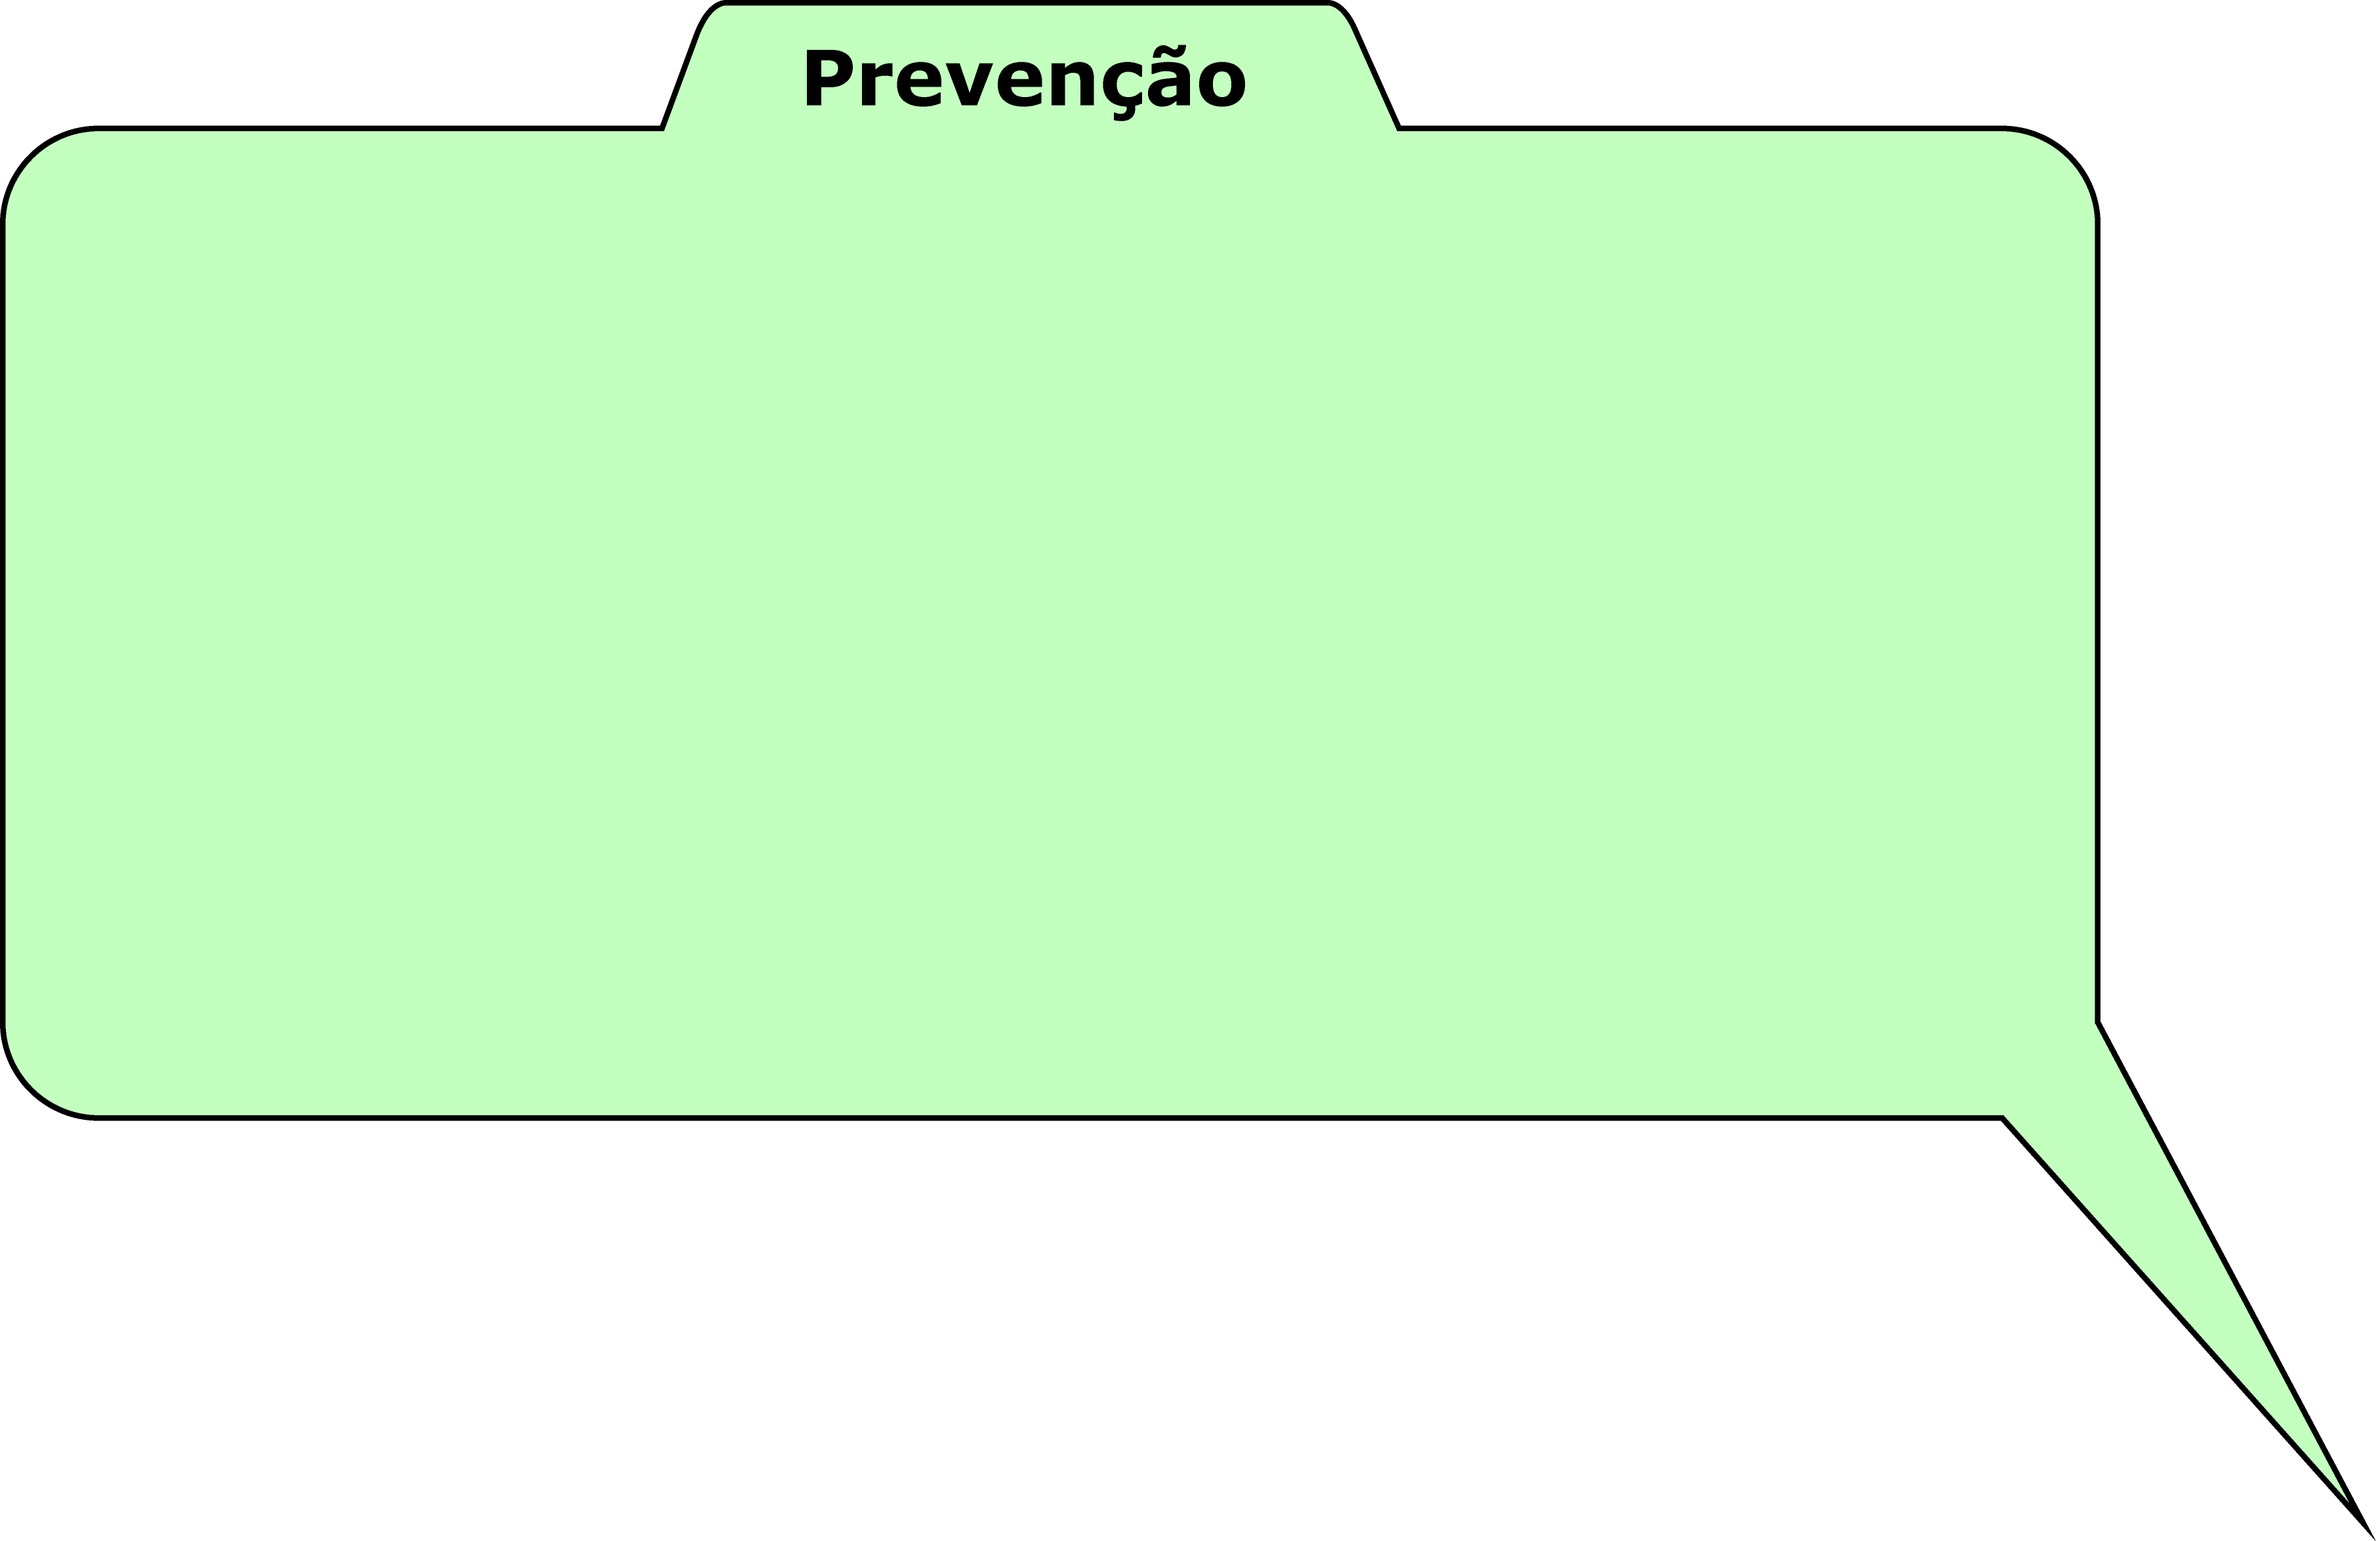
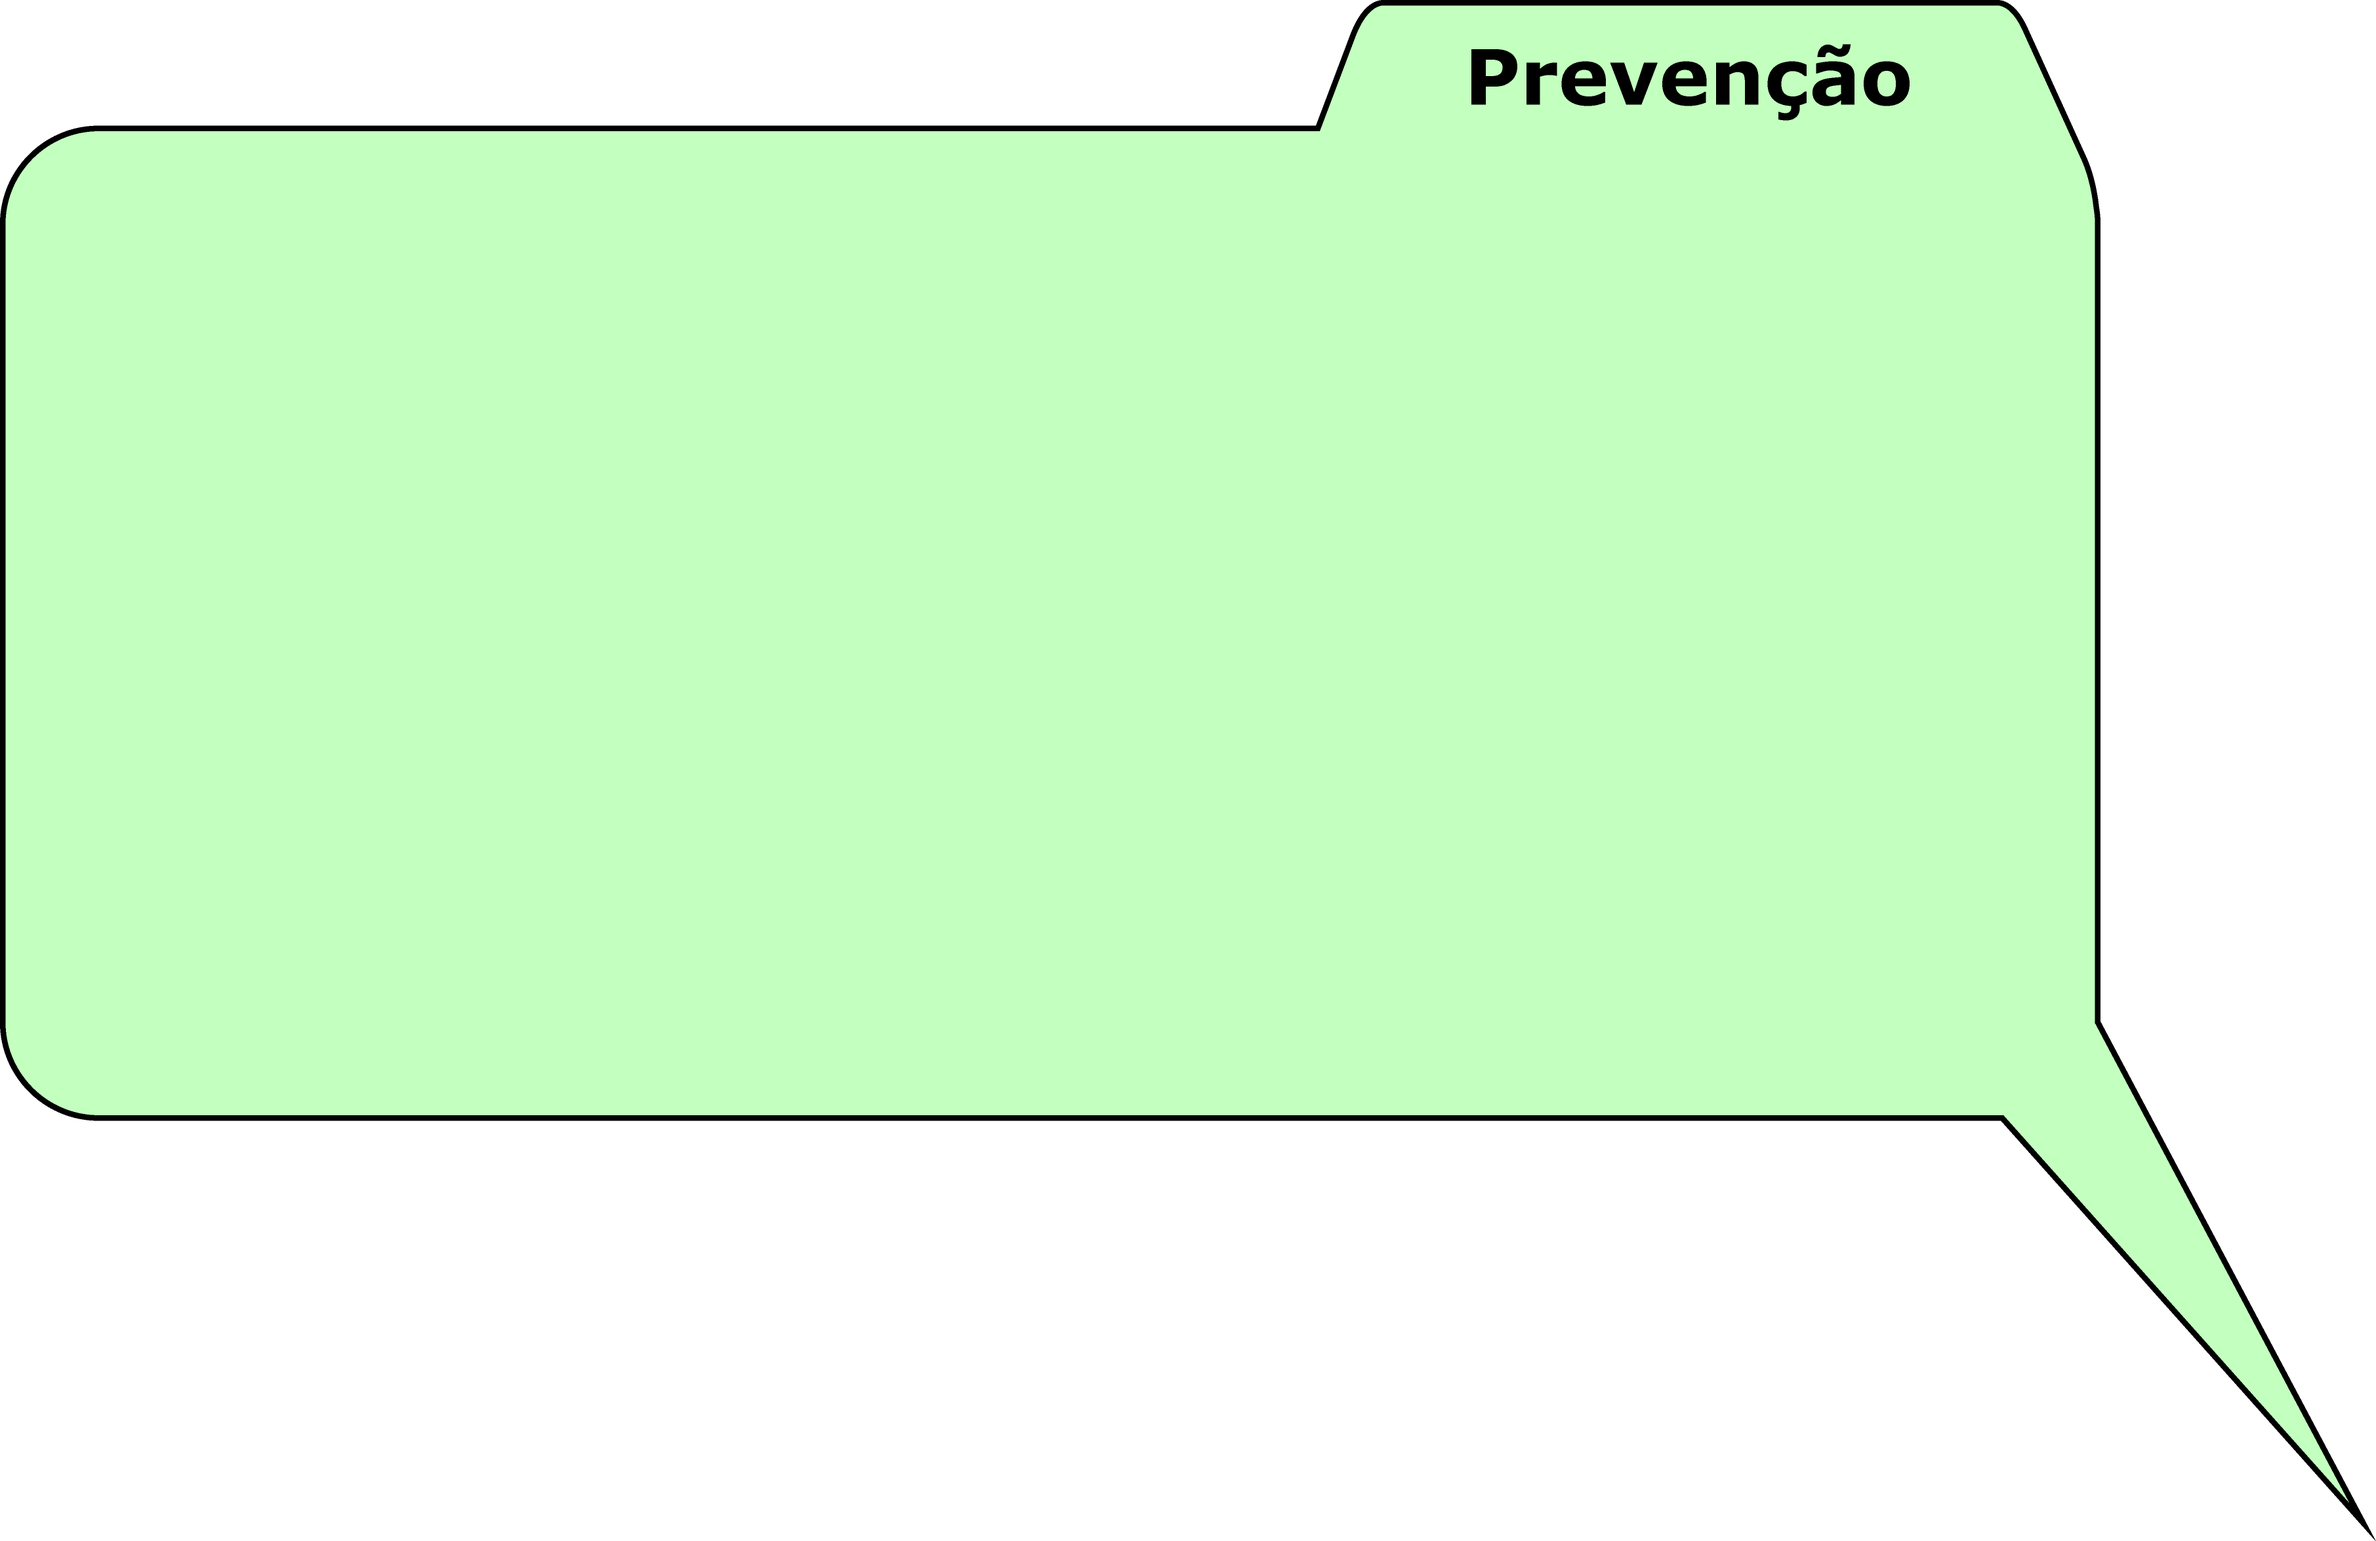
Swap 'Transmissao' and 'Prevencao' tabs

Changed region(s): [[0.2808, 0.0, 0.8736, 0.0932], [0.8736, 0.0932, 0.9047, 0.1243]]

diff --git a/js/cena1_cicloCisticercose.js b/js/cena1_cicloCisticercose.js
@@ -274,9 +274,9 @@ function carregaCicloCisticercose() {
   itensCenouraDoente.push(item.cenouraTextoSintomas);
 
   item.cenouraAbaPrevencao = new Game.Item("abaPrev.png");
-  item.cenouraAbaPrevencao.setPosition(432+244+550-150, 71);
+  item.cenouraAbaPrevencao.setPosition(432+486+550-150, 71);
   item.cenouraAbaPrevencao.setScale(0.25);
-  item.cenouraAbaPrevencao.setZorder(8);
+  item.cenouraAbaPrevencao.setZorder(9);
   item.cenouraAbaPrevencao.setAlpha(0);
   item.cenouraAbaPrevencao.disable();
   item.cenouraAbaPrevencao.onClick = function() {
@@ -300,9 +300,9 @@ function carregaCicloCisticercose() {
   itensCenouraDoente.push(item.cenouraTextoPrevencao);
 
   item.cenouraAbaTransmissao = new Game.Item("abaTran.png");
-  item.cenouraAbaTransmissao.setPosition(432+490+550-150, 71);
+  item.cenouraAbaTransmissao.setPosition(432+232+550-150, 71);
   item.cenouraAbaTransmissao.setScale(0.25);
-  item.cenouraAbaTransmissao.setZorder(9);
+  item.cenouraAbaTransmissao.setZorder(8);
   item.cenouraAbaTransmissao.setAlpha(0);
   item.cenouraAbaTransmissao.disable();
   item.cenouraAbaTransmissao.onClick = function() {

diff --git a/js/cena1_cicloTaeniaSolium.js b/js/cena1_cicloTaeniaSolium.js
@@ -531,9 +531,9 @@ function carregaCicloTaeniaSolium() {
   itensPorcoDoente.push(item.porcoTextoSintomas);
 
   item.porcoAbaPrevencao = new Game.Item("abaPrev.png");
-  item.porcoAbaPrevencao.setPosition(432+244+550+270, 71);
+  item.porcoAbaPrevencao.setPosition(432+486+550+270, 71);
   item.porcoAbaPrevencao.setScale(0.25);
-  item.porcoAbaPrevencao.setZorder(8);
+  item.porcoAbaPrevencao.setZorder(9);
   item.porcoAbaPrevencao.setAlpha(0);
   item.porcoAbaPrevencao.disable();
   item.porcoAbaPrevencao.onClick = function() {
@@ -557,9 +557,9 @@ function carregaCicloTaeniaSolium() {
   itensPorcoDoente.push(item.porcoTextoPrevencao);
 
   item.porcoAbaTransmissao = new Game.Item("abaTran.png");
-  item.porcoAbaTransmissao.setPosition(432+490+550+270, 71);
+  item.porcoAbaTransmissao.setPosition(432+232+550+270, 71);
   item.porcoAbaTransmissao.setScale(0.25);
-  item.porcoAbaTransmissao.setZorder(9);
+  item.porcoAbaTransmissao.setZorder(8);
   item.porcoAbaTransmissao.setAlpha(0);
   item.porcoAbaTransmissao.disable();
   item.porcoAbaTransmissao.onClick = function() {

diff --git a/js/cena0_cicloAscaris.js b/js/cena0_cicloAscaris.js
@@ -497,9 +497,9 @@ function carregaCicloAscaris() {
   itensTomateDoente.push(item.tomateTextoSintomas);
 
   item.tomateAbaPrevencao = new Game.Item("abaPrev.png");
-  item.tomateAbaPrevencao.setPosition(432+232-260, 71);
+  item.tomateAbaPrevencao.setPosition(432+486-260, 71);
   item.tomateAbaPrevencao.setScale(0.25);
-  item.tomateAbaPrevencao.setZorder(8);
+  item.tomateAbaPrevencao.setZorder(9);
   item.tomateAbaPrevencao.setAlpha(0);
   item.tomateAbaPrevencao.disable();
   item.tomateAbaPrevencao.onClick = function() {
@@ -523,9 +523,9 @@ function carregaCicloAscaris() {
   itensTomateDoente.push(item.tomateTextoPrevencao);
 
   item.tomateAbaTransmissao = new Game.Item("abaTran.png");
-  item.tomateAbaTransmissao.setPosition(432+482-260, 71);
+  item.tomateAbaTransmissao.setPosition(432+232-260, 71);
   item.tomateAbaTransmissao.setScale(0.25);
-  item.tomateAbaTransmissao.setZorder(9);
+  item.tomateAbaTransmissao.setZorder(8);
   item.tomateAbaTransmissao.setAlpha(0);
   item.tomateAbaTransmissao.disable();
   item.tomateAbaTransmissao.onClick = function() {

diff --git a/js/cena1_cicloTaeniaSaginata.js b/js/cena1_cicloTaeniaSaginata.js
@@ -530,9 +530,9 @@ function carregaCicloTaeniaSaginata() {
   itensVacaDoente.push(item.vacaTextoSintomas);
 
   item.vacaAbaPrevencao = new Game.Item("abaPrev.png");
-  item.vacaAbaPrevencao.setPosition(432+244+550+270, 71);
+  item.vacaAbaPrevencao.setPosition(432+486+550+270, 71);
   item.vacaAbaPrevencao.setScale(0.25);
-  item.vacaAbaPrevencao.setZorder(8);
+  item.vacaAbaPrevencao.setZorder(9);
   item.vacaAbaPrevencao.setAlpha(0);
   item.vacaAbaPrevencao.disable();
   item.vacaAbaPrevencao.onClick = function() {
@@ -556,9 +556,9 @@ function carregaCicloTaeniaSaginata() {
   itensVacaDoente.push(item.vacaTextoPrevencao);
 
   item.vacaAbaTransmissao = new Game.Item("abaTran.png");
-  item.vacaAbaTransmissao.setPosition(432+490+550+270, 71);
+  item.vacaAbaTransmissao.setPosition(432+232+550+270, 71);
   item.vacaAbaTransmissao.setScale(0.25);
-  item.vacaAbaTransmissao.setZorder(9);
+  item.vacaAbaTransmissao.setZorder(8);
   item.vacaAbaTransmissao.setAlpha(0);
   item.vacaAbaTransmissao.disable();
   item.vacaAbaTransmissao.onClick = function() {

diff --git a/js/cena0_cicloToxoplamose.js b/js/cena0_cicloToxoplamose.js
@@ -367,9 +367,9 @@ function carregaCicloToxoplasmose() {
   itensGatoDoente.push(item.gatoTextoSintomas);
 
   item.gatoAbaPrevencao = new Game.Item("abaPrev.png");
-  item.gatoAbaPrevencao.setPosition(432+244+550, 71);
+  item.gatoAbaPrevencao.setPosition(432+486+550, 71);
   item.gatoAbaPrevencao.setScale(0.25);
-  item.gatoAbaPrevencao.setZorder(8);
+  item.gatoAbaPrevencao.setZorder(9);
   item.gatoAbaPrevencao.setAlpha(0);
   item.gatoAbaPrevencao.disable();
   item.gatoAbaPrevencao.onClick = function() {
@@ -393,9 +393,9 @@ function carregaCicloToxoplasmose() {
   itensGatoDoente.push(item.gatoTextoPrevencao);
 
   item.gatoAbaTransmissao = new Game.Item("abaTran.png");
-  item.gatoAbaTransmissao.setPosition(432+490+550, 71);
+  item.gatoAbaTransmissao.setPosition(432+232+550, 71);
   item.gatoAbaTransmissao.setScale(0.25);
-  item.gatoAbaTransmissao.setZorder(9);
+  item.gatoAbaTransmissao.setZorder(8);
   item.gatoAbaTransmissao.setAlpha(0);
   item.gatoAbaTransmissao.disable();
   item.gatoAbaTransmissao.onClick = function() {

diff --git a/js/cena0_cicloPlasmodium.js b/js/cena0_cicloPlasmodium.js
@@ -495,9 +495,9 @@ function carregaCicloPlasmodium() {
   itensPernDoente.push(item.pernTextoSintomas);
 
   item.pernAbaPrevencao = new Game.Item("abaPrev.png");
-  item.pernAbaPrevencao.setPosition(432+232+300, 71);
+  item.pernAbaPrevencao.setPosition(432+486+300, 71);
   item.pernAbaPrevencao.setScale(0.25);
-  item.pernAbaPrevencao.setZorder(8);
+  item.pernAbaPrevencao.setZorder(9);
   item.pernAbaPrevencao.setAlpha(0);
   item.pernAbaPrevencao.disable();
   item.pernAbaPrevencao.onClick = function() {
@@ -521,9 +521,9 @@ function carregaCicloPlasmodium() {
   itensPernDoente.push(item.pernTextoPrevencao);
 
   item.pernAbaTransmissao = new Game.Item("abaTran.png");
-  item.pernAbaTransmissao.setPosition(432+482+300, 71);
+  item.pernAbaTransmissao.setPosition(432+232+300, 71);
   item.pernAbaTransmissao.setScale(0.25);
-  item.pernAbaTransmissao.setZorder(9);
+  item.pernAbaTransmissao.setZorder(8);
   item.pernAbaTransmissao.setAlpha(0);
   item.pernAbaTransmissao.disable();
   item.pernAbaTransmissao.onClick = function() {

diff --git a/js/cena1_cicloGiardia.js b/js/cena1_cicloGiardia.js
@@ -435,9 +435,9 @@ function carregaCicloGiardia() {
   itensPocoDoente.push(item.pocoTextoSintomas);
 
   item.pocoAbaPrevencao = new Game.Item("abaPrev.png");
-  item.pocoAbaPrevencao.setPosition(432+232+80, 71);
+  item.pocoAbaPrevencao.setPosition(432+486+80, 71);
   item.pocoAbaPrevencao.setScale(0.25);
-  item.pocoAbaPrevencao.setZorder(8);
+  item.pocoAbaPrevencao.setZorder(9);
   item.pocoAbaPrevencao.setAlpha(0);
   item.pocoAbaPrevencao.disable();
   item.pocoAbaPrevencao.onClick = function() {
@@ -461,9 +461,9 @@ function carregaCicloGiardia() {
   itensPocoDoente.push(item.pocoTextoPrevencao);
 
   item.pocoAbaTransmissao = new Game.Item("abaTran.png");
-  item.pocoAbaTransmissao.setPosition(432+482+80, 71);
+  item.pocoAbaTransmissao.setPosition(432+232+80, 71);
   item.pocoAbaTransmissao.setScale(0.25);
-  item.pocoAbaTransmissao.setZorder(9);
+  item.pocoAbaTransmissao.setZorder(8);
   item.pocoAbaTransmissao.setAlpha(0);
   item.pocoAbaTransmissao.disable();
   item.pocoAbaTransmissao.onClick = function() {

diff --git a/js/cena0_cicloEhistolytica.js b/js/cena0_cicloEhistolytica.js
@@ -466,7 +466,7 @@ function carregaCicloEhistolytica() {
   itensBananaDoente.push(item.bananaTextoSintomas);
 
   item.bananaAbaPrevencao = new Game.Item("abaPrev.png");
-  item.bananaAbaPrevencao.setPosition(432 + 232, 71);
+  item.bananaAbaPrevencao.setPosition(432+486, 71);
   item.bananaAbaPrevencao.setScale(0.25);
   item.bananaAbaPrevencao.setZorder(8);
   item.bananaAbaPrevencao.setAlpha(0);
@@ -492,7 +492,7 @@ function carregaCicloEhistolytica() {
   itensBananaDoente.push(item.bananaTextoPrevencao);
 
   item.bananaAbaTransmissao = new Game.Item("abaTran.png");
-  item.bananaAbaTransmissao.setPosition(432 + 482, 71);
+  item.bananaAbaTransmissao.setPosition(432+232, 71);
   item.bananaAbaTransmissao.setScale(0.25);
   item.bananaAbaTransmissao.setZorder(9);
   item.bananaAbaTransmissao.setAlpha(0);
